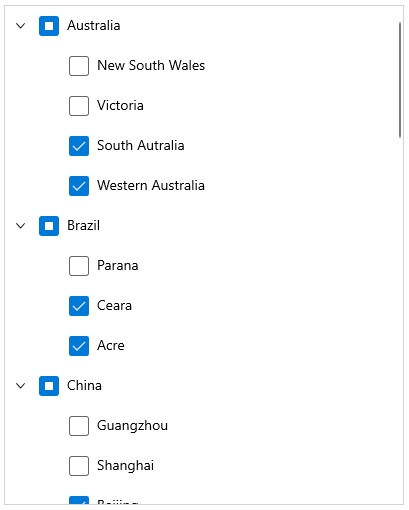
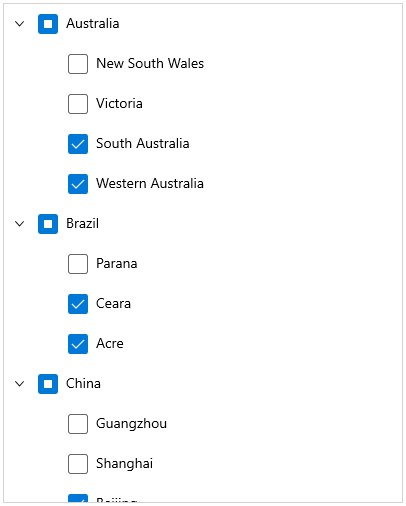
WINUI-40 Prepare the UG documentation for the TreeView control in WinUI platform

diff --git a/winui/TreeView/Checkbox.md b/winui/TreeView/Checkbox.md
@@ -92,7 +92,7 @@ public class CheckBoxView : NotificationObject
 
         var aus_state1 = new CheckBoxModel { State = "New South Wales" };
         var aus_state2 = new CheckBoxModel { State = "Victoria" };
-        var aus_state3 = new CheckBoxModel { State = "South Autralia" };
+        var aus_state3 = new CheckBoxModel { State = "South Australia" };
         var aus_state4 = new CheckBoxModel { State = "Western Australia" };
 
         var brazil_state1 = new CheckBoxModel { State = "Parana" };
